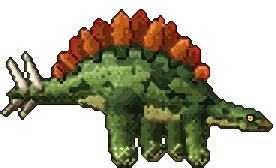
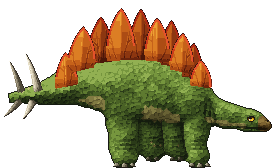
Stegosaur painted in HD
Painted over its drawing: the green hide lit as masses, the low head and
neck, pillar legs with nails, the four ivory tail spikes painted again.
Its plates are painted again too (Plate, plate.go), two rows, the far
one darker: each a broad blade of two faces meeting along a ridge, the
face towards the light the brighter, darker where it grows out of the
back, grooves for its blood vessels fanning up from the base, and a thin
warm edge the light shines through inside a dark outline.

diff --git a/internal/dinopaint/stego.go b/internal/dinopaint/stego.go
@@ -1,0 +1,174 @@
+package dinopaint
+
+// The plated one: dinos/stego.png, 92 x 56, facing right. Its rig is
+// "stego" in internal/client/dinorigs.go: legs near hind (hip 40.5, 36),
+// far hind (50, 37), far fore (58, 38), near fore (66, 37); the head turns
+// about (73, 37.5), the beak opens about (82, 42.5) along the line to (89.5,
+// 43); the end of the tail, with its spikes, swings about (17.5, 30).
+
+var (
+	plateFace = []uint32{0x4a1608, 0x6a240c, 0x8c3610, 0xac4c14, 0xc6621a, 0xdc7e24, 0xeca034, 0xf6be54}
+	plateRim  = []uint32{0x3c0a06, 0x62120a, 0x8a1e0e, 0xb02c14, 0xcc3c1c, 0xe4522a, 0xf47040, 0xff9a68}
+	spikeBone = []uint32{0x4e4838, 0x7a725e, 0xa69c84, 0xcac0a6, 0xe6dec6, 0xfaf6ea}
+	stegoHoof = []uint32{0x2a2a1c, 0x56523e, 0x86806a, 0xb4ae96, 0xd8d4c0}
+	stegoIris = []uint32{0x4a2a04, 0x7a4a06, 0xb07808, 0xdca414, 0xffc838, 0xffe68a}
+	stegoHide = []uint32{0x141c0e, 0x1e2a12, 0x2a3a18, 0x384c1e, 0x4a6226, 0x5e7a30, 0x76963e, 0x92b052}
+)
+
+func init() { Register(stego()) }
+
+// The plates, back to front: the far row first, darker, between the near
+// ones.
+var stegoPlates = []PlateSpec{
+	// The far row.
+	{BX0: 29.4, BY0: 21.5, BX1: 37.4, BY1: 20.5, TX: 33.6, TY: 5.4, Bulge: 1.2},
+	{BX0: 43.2, BY0: 20, BX1: 50.6, BY1: 20, TX: 47, TY: 2.8, Bulge: 1.2},
+	{BX0: 53.6, BY0: 21.5, BX1: 60.4, BY1: 22.6, TX: 57.2, TY: 6.6, Bulge: 1.1},
+	{BX0: 60.8, BY0: 25.5, BX1: 67.4, BY1: 26.5, TX: 64.6, TY: 14.2, Bulge: 0.9},
+	// The near row.
+	{BX0: 18.6, BY0: 29.6, BX1: 25.8, BY1: 28.2, TX: 21.8, TY: 17.2, Bulge: 0.9}, // clear of the tail's joint, at 17.5
+	{BX0: 22.5, BY0: 24.5, BX1: 31.2, BY1: 22.5, TX: 27.8, TY: 8.8, Bulge: 1.3},
+	{BX0: 35.8, BY0: 20.5, BX1: 44.4, BY1: 19.8, TX: 40.4, TY: 2.6, Bulge: 1.4},
+	{BX0: 48.6, BY0: 20.2, BX1: 56.2, BY1: 20.8, TX: 52.4, TY: 5.8, Bulge: 1.2},
+	{BX0: 56.8, BY0: 23.2, BX1: 64.2, BY1: 24.8, TX: 61, TY: 10.8, Bulge: 1.1},
+	{BX0: 63.6, BY0: 28.5, BX1: 70.4, BY1: 29.5, TX: 67, TY: 19.8, Bulge: 0.9},
+}
+
+const stegoFar = 4 // the first four plates are the far row
+
+func stego() *Species {
+	nearHind := Union(
+		Cone(40.5, 33, 6.4, 41.5, 45, 4.6),
+		Cone(41.5, 45, 4.3, 41, 51, 3.8),
+		Ellipse(41.6, 53.3, 4.6, 2.5, 0),
+	)
+	farHind := Union(
+		Cone(50, 35, 5.2, 50.5, 45, 4),
+		Cone(50.5, 45, 3.8, 50, 50, 3.4),
+		Ellipse(50.8, 51.7, 4, 2, 0),
+	)
+	farFore := Union(
+		Cone(58, 37, 4.4, 57.5, 45, 3.6),
+		Cone(57.5, 45, 3.4, 58, 50, 3.1),
+		Ellipse(58.6, 51.7, 3.6, 2, 0),
+	)
+	nearFore := Union(
+		Cone(66, 36.5, 5.4, 65.5, 45, 4.4),
+		Cone(65.5, 45, 4.2, 66, 51, 3.7),
+		Ellipse(66.6, 53.3, 4.4, 2.5, 0),
+	)
+	tail := Path([3]float64{0.8, 33, 1.1}, [3]float64{8, 32, 2.5}, [3]float64{15, 31, 4}, [3]float64{24, 29, 7})
+	body := Blend(3,
+		tail,
+		Ellipse(45, 29.8, 24, 11, 0),
+		Ellipse(63, 34, 7.5, 7.5, 0), // the shoulders
+	)
+	head := Blend(2,
+		Cone(63.5, 32, 6.5, 73.5, 37.6, 4.2), // the neck, low, the head carried near the ground
+		Poly(71, 33.4, 75, 32.8, 80, 33.4, 84, 34.6, 87.6, 36.4, 90.4, 38.6, 91.2, 41.2, 89.8, 43.4, 84, 43.8, 78, 42.8, 72.5, 42.2, 69.5, 41),
+	)
+	beak := Poly(86.2, 39, 89, 38.4, 91.4, 40.6, 91, 43.2, 88, 44, 86, 43.2)
+	var plates []SDF
+	for _, s := range stegoPlates {
+		plates = append(plates, s.Shape())
+	}
+	return &Species{
+		Name:        "stego",
+		GuideDetail: 0.4,
+		Ink:         28,
+		// The plates and the tail's spikes are painted again: the guide's
+		// are cut out of the silhouette first, all of it above the back and
+		// round the end of the tail.
+		Remove: []SDF{
+			Cut(Poly(15, 0, 75, 0, 75, 32, 15, 32), Union(body, head)),
+			Cut(Poly(-1, 14, 15.5, 14, 15.5, 46, -1, 46), tail),
+		},
+		Recolor: []Recolor{
+			// What is left of the guide's plates on the back is back.
+			{Region: Poly(0, 0, 92, 0, 92, 56, 0, 56), From: []string{"plate", "bone"}, To: "hide"},
+		},
+		Materials: []Material{
+			{Name: "hide", Seeds: []uint32{0x495d2a, 0x445c30, 0x5a7640, 0x64803a, 0x728f52, 0x81a04d, 0x8ca866, 0x9fbb64, 0xbcd284, 0x1c2612, 0x1f2c17, 0x304322, 0x31401d},
+				Ramp:   stegoHide,
+				Region: Poly(30, 49, 75, 49, 75, 57, 30, 57), Only: []string{"bone", "belly"}}, // the guide's nails are painted again
+			{Name: "belly", Seeds: []uint32{0x99874b, 0xa09276, 0x938b74, 0x76743c, 0xc4c074, 0xe0dc98, 0x9e9c54},
+				Ramp: []uint32{0x2a2814, 0x3c381c, 0x524c28, 0x686234, 0x807a42, 0x989252, 0xb0aa66, 0xc8c280}, Relief: 0.7},
+			{Name: "plate", Seeds: []uint32{0xe0882a, 0xc4621c, 0xf47a4a, 0xe45232, 0xc4301e, 0x9a4216, 0x6a2a12, 0x4e130c}, Ramp: stegoHide},
+			{Name: "bone", Seeds: []uint32{0xeee6cc, 0xfffaea, 0xd2c6a6, 0xa89a7c}, Ramp: stegoHide},
+			{Name: "beak", Ramp: []uint32{0x1c1408, 0x2a1e0c, 0x3c2c12, 0x503c1a, 0x664e24, 0x7c6230, 0x92783e, 0xa88e50}, Relief: 0.3,
+				Region: beak},
+		},
+		Parts: []Part{
+			{Name: "farHind", Shape: farHind, Far: true, Round: 3.4, Scale: 0.85, Muscles: []Muscle{
+				Mu(50, 39, 3.8, 4.4, 0, 1.0),
+			}},
+			{Name: "farFore", Shape: farFore, Far: true, Round: 3.2, Scale: 0.85, Muscles: []Muscle{
+				Mu(58, 40, 3.4, 4, 0, 0.9),
+			}},
+			{Name: "body", Shape: body, Round: 8, Muscles: []Muscle{
+				Mu(39, 28, 9, 7, 0, 1.6),        // the great hip
+				Mu(52, 30, 9, 6.5, 0, 1.0),      // the ribs
+				Mu(63, 33, 5, 5.5, 0.2, 1.3),    // the shoulder
+				Mu(46, 37.5, 12, 3, 0, 0.6),     // the belly
+				Mu(22, 31, 7, 3.2, -0.2, 1.2),   // the tail's great muscle
+				Mu(10, 32.4, 6, 1.8, -0.1, 0.7), // the tail
+				Mu(44, 22.5, 15, 2.6, 0, 0.6),   // the long muscles of the back
+			}},
+			{Name: "head", Shape: head, Round: 3.6, Soft: 0.65, Scale: 0.7, Onto: "body", Seam: Below(60, 39, 72, 46), Muscles: []Muscle{
+				Mu(67.5, 34.5, 4, 3.4, 0.5, 1.1), // the neck
+				Mu(78.5, 37.2, 3.2, 2.4, 0, 1.2), // the cheek
+				Mu(83.8, 37.4, 1.8, 1.0, 0, 0.9), // the brow
+				Mu(88.6, 40.6, 2.2, 1.8, 0, 0.7), // the beak
+			}},
+			{Name: "nearHind", Shape: nearHind, Round: 4.4, Onto: "body", Seam: Below(25, 38.5, 48, 40), Muscles: []Muscle{
+				Mu(40, 37.5, 4.8, 5.6, 0, 1.8), // the thigh
+				Mu(41.4, 45.5, 2.4, 2.2, 0, 0.6),
+				Mu(41.8, 53, 3.4, 1.7, 0, 0.6),
+			}},
+			{Name: "nearFore", Shape: nearFore, Round: 4.2, Onto: "body", Seam: Below(55, 40, 75, 40), Muscles: []Muscle{
+				Mu(66, 40, 4, 4.8, 0, 1.5), // the upper arm
+				Mu(65.6, 45.5, 2.4, 2.2, 0, 0.6),
+				Mu(66.8, 53, 3.2, 1.7, 0, 0.6),
+			}},
+		},
+		Skin: Skin{Flank: 2.0, Back: 3.0, Belly: 1.5, BackDepth: 4, BellyDepth: 4, Seed: 41},
+		Osteoderms: []Row{
+			// Little bony studs along the flank, low, and on the throat.
+			{X0: 26, X1: 60, Off: 13.5, Gap: 3.4, R: 0.75, Parts: []string{"body"}},
+		},
+		Folds: []Fold{
+			{Pts: []float64{69, 33.5, 68.2, 37.5, 68.8, 41.5}, N: 3, DX: 1.6, DY: 0.2, Depth: 1.0}, // the neck
+			{Pts: []float64{38, 47, 44.5, 46.8}, N: 3, DY: 1.4, Depth: 0.9},                        // wrinkled legs
+			{Pts: []float64{62.5, 47, 69, 46.8}, N: 3, DY: 1.4, Depth: 0.9},
+			{Pts: []float64{47.5, 46, 53, 45.8}, N: 2, DY: 1.4, Depth: 0.7},
+			{Pts: []float64{55.5, 46, 60.5, 45.8}, N: 2, DY: 1.4, Depth: 0.7},
+			{Pts: []float64{78, 42.2, 84, 42.7, 89.5, 43}, N: 1, Depth: 1.8}, // the line of the mouth
+		},
+		Details: stegoDetails,
+	}
+}
+
+func stegoDetails(p *Painter) {
+	// The tail's spikes, the far pair first, darker.
+	p.Horn(HornSpec{X0: 7.2, Y0: 30.6, X1: 3.2, Y1: 20.4, W: 2.4, Bend: 0.5, Ramp: spikeBone, Shade: -0.3})
+	p.Horn(HornSpec{X0: 6.6, Y0: 33.6, X1: 1.4, Y1: 38.8, W: 2.2, Bend: 0.4, Ramp: spikeBone, Shade: -0.3})
+	p.Horn(HornSpec{X0: 12.8, Y0: 30.4, X1: 8.6, Y1: 17.8, W: 2.9, Bend: 0.6, Ramp: spikeBone, Grooves: true})
+	p.Horn(HornSpec{X0: 11, Y0: 33.6, X1: 7.6, Y1: 39.8, W: 2.5, Bend: 0.4, Ramp: spikeBone})
+	// The plates: the far row darker, behind the near one.
+	for i, s := range stegoPlates {
+		s.Face, s.Rim, s.Grooves, s.Seed = plateFace, plateRim, 4, uint32(i+1)
+		if i < stegoFar {
+			s.Shade = -0.2
+		}
+		p.Plate(s)
+	}
+	p.Eye(EyeSpec{X: 83.6, Y: 39.5, R: 0.8, Iris: stegoIris, Lid: 0.3, Squint: 1.3})
+	p.Nostril(89.4, 40.2, 0.55, 0.38, -0.3)
+	// The nails of the near feet, then the far ones, darker.
+	for _, n := range [][3]float64{{38.9, 55.7, 0.95}, {41.6, 55.9, 1}, {44.2, 55.6, 0.85}, {64, 55.7, 0.95}, {66.7, 55.9, 1}, {69.2, 55.6, 0.85}} {
+		p.Nail(n[0], n[1], 2.3*n[2], 1.6*n[2], stegoHoof, -0.15)
+	}
+	for _, n := range [][2]float64{{49.6, 53.6}, {52.2, 53.5}, {57.6, 53.6}, {60, 53.5}} {
+		p.Nail(n[0], n[1], 1.9, 1.3, stegoHoof, -0.45)
+	}
+}

diff --git a/internal/dinopaint/plate.go b/internal/dinopaint/plate.go
@@ -1,0 +1,176 @@
+package dinopaint
+
+import (
+	"image/color"
+	"math"
+)
+
+// PlateSpec is a bony plate standing up out of the back, seen flat on, as
+// a stegosaur's: its base sunk in the back from (BX0, BY0) to (BX1, BY1),
+// its point at (TX, TY), its sides swelling Bulge past the straight lines
+// from the base to the point.
+type PlateSpec struct {
+	BX0, BY0, BX1, BY1 float64
+	TX, TY             float64
+	Bulge              float64
+	Face               []uint32 // its colours from dark to light
+	Rim                []uint32 // the thin edge the light shines through, dark to light
+	Shade              float64  // added to its light: below 0 for a plate on the far side
+	Grooves            int      // the blood vessels' grooves fanning up from the base
+	Seed               uint32
+}
+
+// outline is the plate's edge as a polygon: the base, then a curve up the
+// back side to the point and down the front side.
+func (s PlateSpec) outline() []float64 {
+	mx, my := (s.BX0+s.BX1)/2, (s.BY0+s.BY1)/2
+	ax, ay := s.TX-mx, s.TY-my
+	l := math.Hypot(ax, ay)
+	px, py := -ay/l, ax/l // across the plate, to the front (right of the axis when it points up)
+	if px < 0 {
+		px, py = -px, -py
+	}
+	side := func(bx, by, sgn float64, pts []float64, rev bool) []float64 {
+		// A cubic from the base to the point: broadest a third of the way
+		// up, rounding over into the point.
+		c1x := lerp(bx, s.TX, 0.3) + sgn*px*2.4*s.Bulge
+		c1y := lerp(by, s.TY, 0.3) + sgn*py*2.4*s.Bulge
+		c2x := lerp(bx, s.TX, 0.85) + sgn*px*1.6*s.Bulge
+		c2y := lerp(by, s.TY, 0.85) + sgn*py*1.6*s.Bulge
+		const n = 14
+		var seg []float64
+		for i := 0; i <= n; i++ {
+			t := float64(i) / n
+			a, b, c, d := (1-t)*(1-t)*(1-t), 3*(1-t)*(1-t)*t, 3*(1-t)*t*t, t*t*t
+			seg = append(seg, a*bx+b*c1x+c*c2x+d*s.TX, a*by+b*c1y+c*c2y+d*s.TY)
+		}
+		if rev {
+			for i, j := 0, len(seg)-2; i < j; i, j = i+2, j-2 {
+				seg[i], seg[j] = seg[j], seg[i]
+				seg[i+1], seg[j+1] = seg[j+1], seg[i+1]
+			}
+		}
+		return append(pts, seg...)
+	}
+	var pts []float64
+	pts = side(s.BX0, s.BY0, -1, pts, false) // up the back side
+	pts = side(s.BX1, s.BY1, 1, pts, true)   // and down the front
+	// The point once, not twice: an edge of no length has no distance.
+	h := len(pts) / 2
+	return append(pts[:h], pts[h+2:]...)
+}
+
+// Shape is the plate's outline as a shape.
+func (s PlateSpec) Shape() SDF { return Poly(s.outline()...) }
+
+// Plate paints a plate over the hide, added to the silhouette: two faces
+// meeting along a ridge from the base to the point, the one towards the
+// light the brighter; darker where it grows out of the back; grooves for
+// its blood vessels fanning up from the base; a thin edge the light shines
+// through, warm and bright, inside a dark outline.
+func (p *Painter) Plate(s PlateSpec) {
+	shape := s.Shape()
+	mx, my := (s.BX0+s.BX1)/2, (s.BY0+s.BY1)/2
+	ax, ay := s.TX-mx, s.TY-my
+	al := math.Hypot(ax, ay)
+	ux, uy := ax/al, ay/al
+	nx, ny := -uy, ux // across the plate, towards its front
+	if nx < 0 {
+		nx, ny = -nx, -ny
+	}
+	pick := func(r []uint32, v float64) color.NRGBA {
+		return rgb(r[max(0, min(len(r)-1, int(math.Floor(clamp01(v)*float64(len(r))))))])
+	}
+	// The grooves: from points along the base, fanning out towards the
+	// edge, wandering a little, each with a short branch.
+	type line struct{ pts []float64 }
+	var grooves []line
+	for k := 0; k < s.Grooves; k++ {
+		t := (float64(k) + 0.5 + 0.4*(hash(k, 1, s.Seed)-0.5)) / float64(s.Grooves)
+		bx, by := lerp(s.BX0, s.BX1, t), lerp(s.BY0, s.BY1, t)
+		bx, by = bx+ux*0.6, by+uy*0.6
+		fan := (t - 0.5) * 1.5 // the outer ones lean out
+		dx, dy := ux+fan*nx, uy+fan*ny
+		dl := math.Hypot(dx, dy)
+		dx, dy = dx/dl, dy/dl
+		reach := al * (0.55 + 0.3*hash(k, 2, s.Seed)) * (1 - 0.45*math.Abs(t-0.5))
+		var pts []float64
+		x, y := bx, by
+		const n = 6
+		for i := 0; i <= n; i++ {
+			pts = append(pts, x, y)
+			w := (noise(float64(i)*0.9, float64(k)*3.1, s.Seed+7) - 0.5) * 0.7
+			x += dx*reach/n + -dy*w*reach/n
+			y += dy*reach/n + dx*w*reach/n
+		}
+		grooves = append(grooves, line{pts})
+		// A branch off its middle, towards the edge it fans to.
+		mi := 2 * (n / 2)
+		bxm, bym := pts[mi], pts[mi+1]
+		sgn := 1.0
+		if t < 0.5 {
+			sgn = -1
+		}
+		bdx, bdy := dx*0.8+sgn*-dy*0.6, dy*0.8+sgn*dx*0.6
+		bl := reach * 0.35
+		grooves = append(grooves, line{[]float64{bxm, bym, bxm + bdx*bl*0.5, bym + bdy*bl*0.5, bxm + bdx*bl, bym + bdy*bl}})
+	}
+	groove := func(x, y float64) (float64, float64) { // distance to the nearest groove, and how far up it
+		best, at := math.Inf(1), 0.0
+		for _, g := range grooves {
+			for i := 0; i+3 < len(g.pts); i += 2 {
+				d, t := segDist(x, y, g.pts[i], g.pts[i+1], g.pts[i+2], g.pts[i+3])
+				if d < best {
+					best, at = d, (float64(i/2)+t)/float64(len(g.pts)/2-1)
+				}
+			}
+		}
+		return best, at
+	}
+	const e = 0.25
+	p.Fill(shape, true, func(px, py int, d float64) color.NRGBA {
+		x, y := G(px, py)
+		// along: 0 at the base, 1 at the point; across: + towards the front.
+		rx, ry := x-mx, y-my
+		along := (rx*ux + ry*uy) / al
+		across := rx*nx + ry*ny
+		// The two faces: the back one (across < 0) turned towards the light.
+		face := smoothstep(-0.35, 0.35, across) // 0 back face, 1 front face
+		v := lerp(0.66, 0.46, face) + s.Shade
+		v += 0.12 * smoothstep(0.25, 1, along)         // lighter towards the point
+		v -= 0.22 * (1 - smoothstep(0.02, 0.3, along)) // in the back's shadow at its root
+		if math.Abs(across) < 0.3 && along > 0.1 && along < 0.92 {
+			v += 0.07 // the ridge catches the light
+		}
+		if gd, gt := groove(x, y); gd < 0.2 && d > 0.6 {
+			v -= 0.15 * (1 - 0.5*gt)
+		} else if gd < 0.45 && d > 0.6 {
+			v += 0.04
+		}
+		// The edge: which way it faces.
+		gx := shape(x+e, y) - shape(x-e, y)
+		gy := shape(x, y+e) - shape(x, y-e)
+		gl := math.Hypot(gx, gy)
+		lit := 0.0
+		if gl > 0 {
+			lit = smoothstep(-0.2, 0.8, -(gx*light2x+gy*light2y)/gl)
+		}
+		// Where it grows out of the hide there is no edge: it is sunk in the
+		// back, or behind the plates in front of it. Over the air, there is.
+		i := py*p.W + px
+		base := 0.0
+		if p.In[i] {
+			base = 1 - smoothstep(0.15, 0.4, along)
+		}
+		switch {
+		case d < 0.4/K*1.5 && base < 0.5:
+			// The outline: dark, lighter where the edge faces the light.
+			return Mix(pick(s.Rim, 0.15+0.3*lit+s.Shade), Ink, 0.55-0.35*lit)
+		case d < 0.85 && base < 0.5:
+			// The thin edge: the light shines through it, brightest where it
+			// faces away from the light and is lit from behind.
+			return pick(s.Rim, 0.55+0.25*lit+0.15*(1-lit)*smoothstep(0.3, 1, along)+s.Shade+0.15*(v-0.55))
+		}
+		return pick(s.Face, v)
+	})
+}

diff --git a/internal/client/dinos/hd/gen.py b/internal/client/dinos/hd/gen.py
@@ -23,7 +23,7 @@ HERE = os.path.dirname(os.path.abspath(__file__))
 # teeth: the box of the mouth, where pale pixels are teeth.
 # Painted by hand-written descriptions in Go instead (internal/dinopaint,
 # cmd/dinopaint; see README.md here): this script leaves them alone.
-PAINTED = {'rex', 'trike', 'toro'}
+PAINTED = {'rex', 'trike', 'toro', 'stego'}
 
 CFG = {
     'rex':         dict(skin='scale', cell=(5, 4), eyes=[(87, 20, 88, 20)], slit=True, teeth=(82, 31, 105, 34)),
